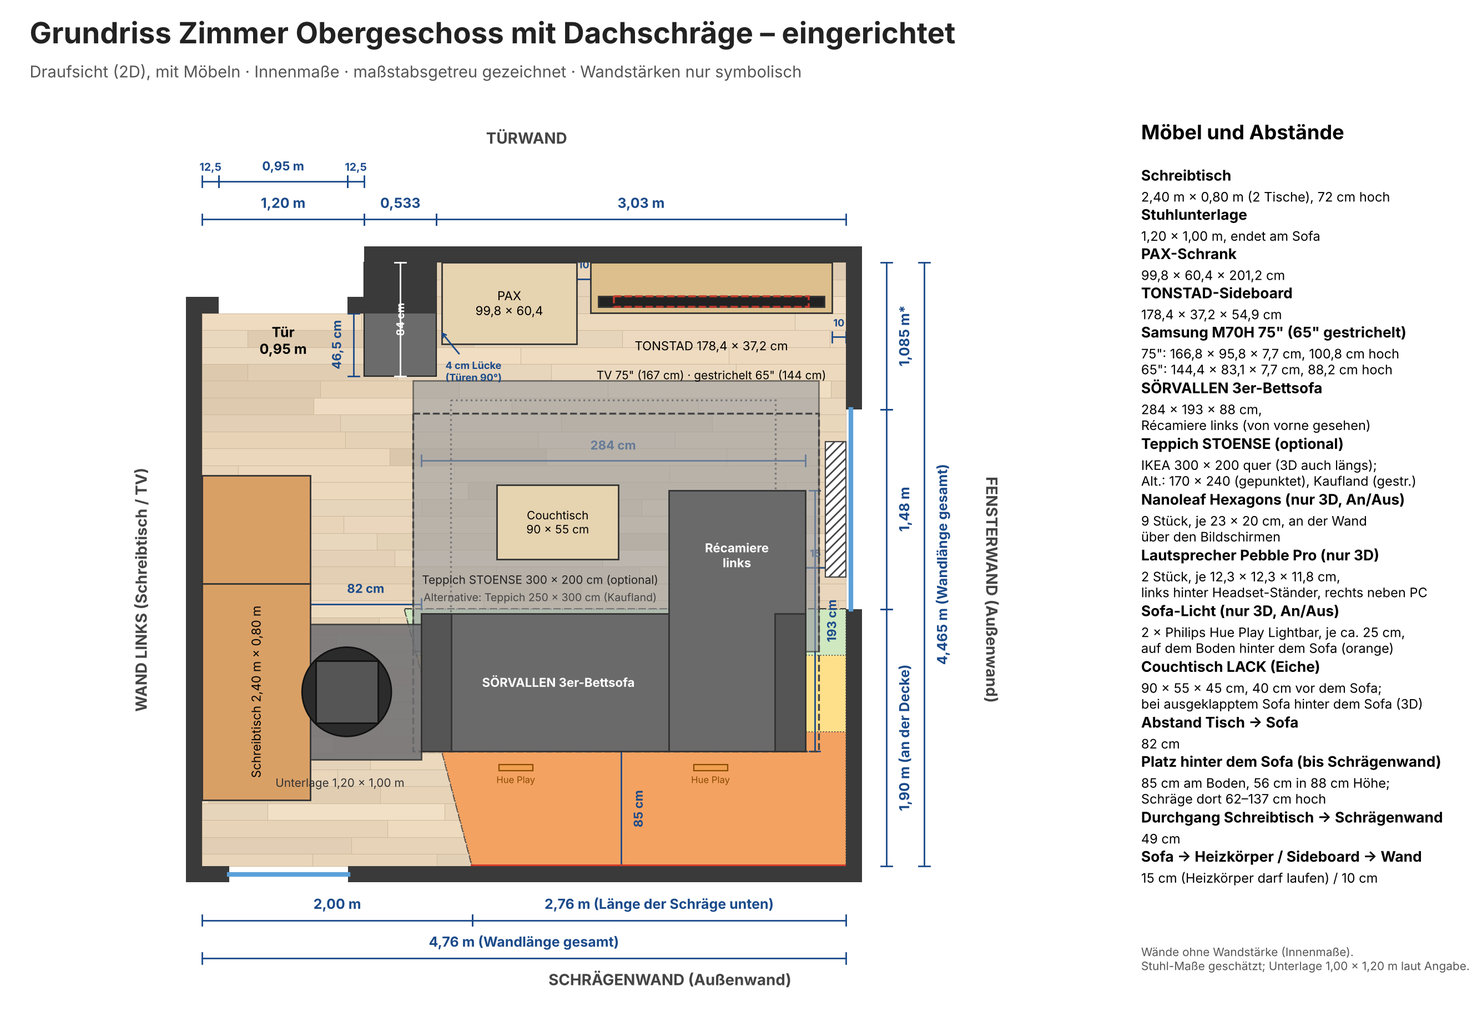
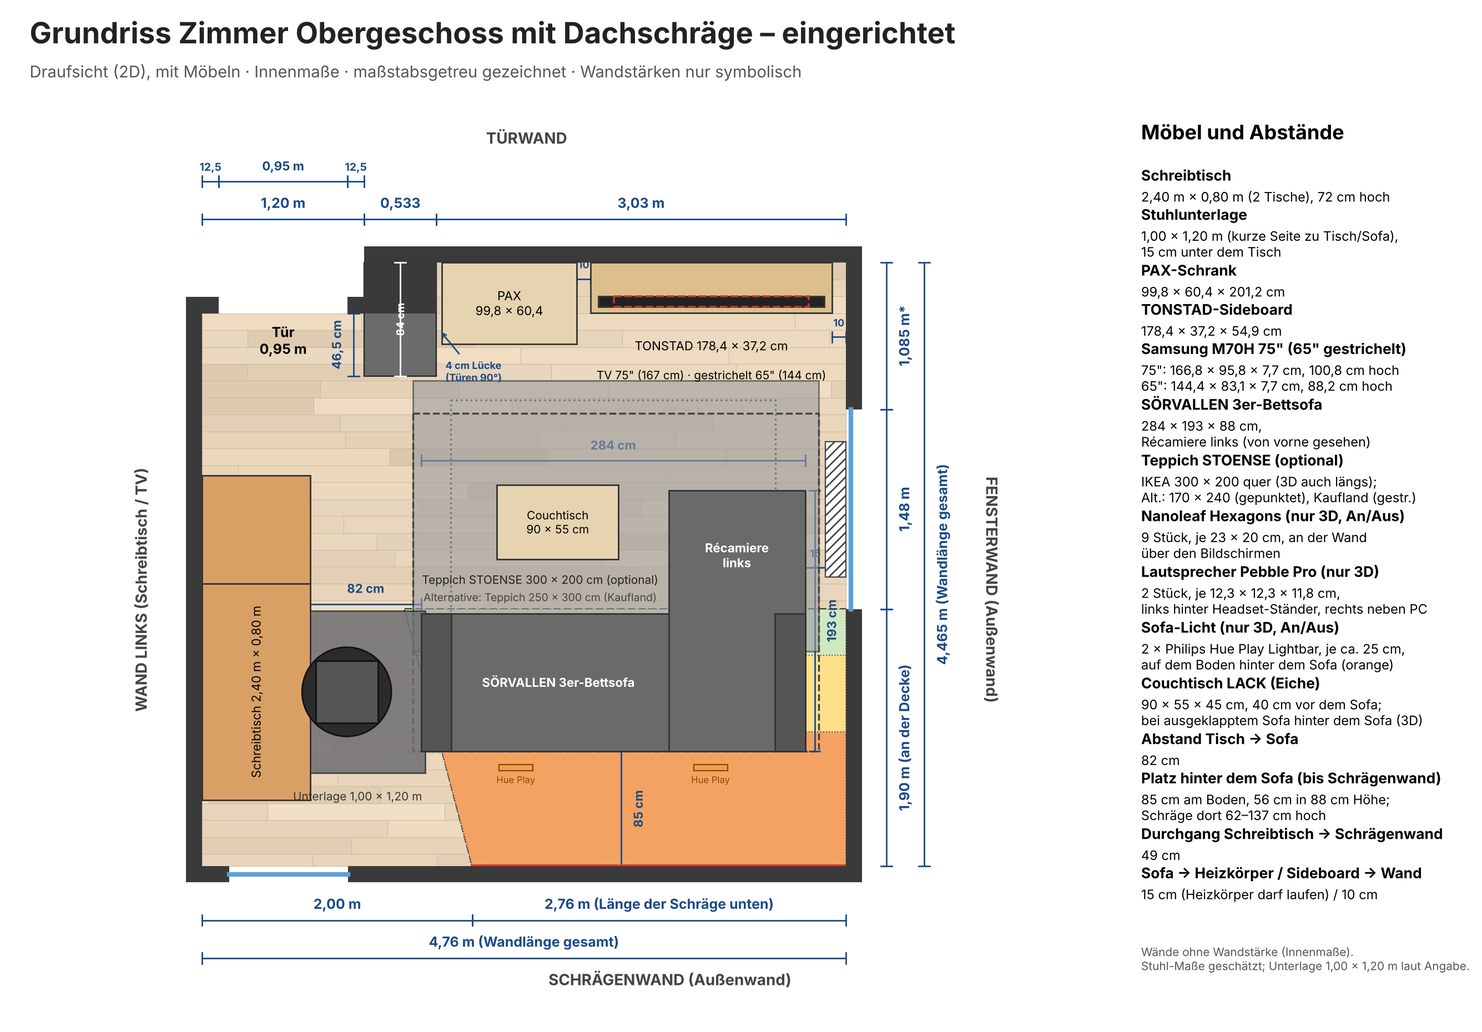
Stuhlunterlage 1,00 x 1,20 m gedreht (kurze Seite zu Tisch/Sofa), 15 cm unter dem Tisch; Rest-Label korrigiert
Claude-Session: https://claude.ai/code/session_01Hf3Bkowp5NFKLbRns8Nosg

Changed region(s): [[0.7461, 0.2183, 0.9637, 0.8731], [0.1865, 0.7172, 0.3109, 0.7796], [0.1865, 0.5925, 0.2798, 0.6237]]

diff --git a/eingerichtet.html b/eingerichtet.html
@@ -629,7 +629,7 @@ Object.keys(RUGS).forEach(function(n){var R=RUGS[n],r=R.r,s=room.children.length
 
 cat='stuhl';
 // Stuhlunterlage 100 x 120 cm + Bürostuhl (Maße geschätzt: Sitz 50 x 50, Gesamthöhe 98, Fußkreuz Ø 66)
-var MX0=0.42,MX1=1.62,MY0=2.30,MY1=3.30,CCX=1.07,CCY=2.80;   // mittig unter dem 1,60-m-Tischteil (y 2,00-3,60)   // Unterlage 1,20 m (Tisch -> Sofa) x 1,00 m (längs zum Tisch), endet am Sofa (1,20 m) -> ragt 23 cm unter die Tischplatte
+var MX0=0.65,MX1=1.65,MY0=2.20,MY1=3.40,CCX=1.07,CCY=2.80;   // mittig unter dem 1,60-m-Tischteil (y 2,00-3,60)   // Unterlage 1,00 m (Tisch -> Sofa, kurze Seite) x 1,20 m (längs zum Tisch), ragt 15 cm unter die Tischplatte (Angabe), reicht 3 cm unters Sofa
 box(MX0,MY0,0,MX1,MY1,0.008,0x6e6e72);
 var CHC=0x222226;
 box(CCX-0.225,CCY-0.225,0.45,CCX+0.225,CCY+0.225,0.51,CHC);      // Sitzfläche 45 x 45
@@ -867,7 +867,7 @@ var LC={'Schreibtisch 2,40 m':'tisch','Höhe 72 cm':'tisch','Tiefe 80 cm':'tisch
  'Sideboard 180 × 42 × 38 cm':'sideboard','Sideboard TONSTAD 178,4 × 37,2 × 54,9 cm':'sideboardT','54,9 cm':'sideboardT','178,4 cm':'sideboardT','Rest bis Fensterwand ≈ 0,10 m (TONSTAD)':'sideboardT','38 cm':'sideboard','180 cm':'sideboard','Rest bis Fensterwand ≈ 0,09 m':'sideboard',
  'Fernseher 75" · Panel 166,8 × 95,8 × 7,7 cm · 22 kg (BESTÅ trägt 30 kg)':'tv','Bilddiagonale ≈ 189 cm (75 Zoll)':'tv','100,8 cm (mit Füßen)':'tv','138,8 cm gesamt':'tv',
  'Sofa SÖRVALLEN 284 × 193 × 88 cm':'sofa','284 cm':'sofa','85 cm Platz hinter dem Sofa (Schräge dort 62–137 cm hoch)':'sofa','Tiefe 102 cm':'sofa','193 cm':'sofa','Decke 137 cm: 49 cm Luft über Rücken (88 cm)':'sofa','15 cm bis Heizkörper':'sofa','Schlaffläche 239 × 147 cm':'bett','239 cm':'bett','147 cm':'bett','Bettkante bis Sideboard 89 cm':'bett','Couchtisch LACK 90 × 55 × 45 cm':'ctn','Breite 90 cm':'ctn','Tiefe 55 cm':'ctn','bis Sofa 40 cm':'ctn','bis Récamiere 36 cm':'ctn','bis Sideboard 85 cm':'ctn','Höhe 45 cm':'ctn','Couchtisch LACK 90 × 55 × 45 cm (hinter dem Sofa)':'ctb','Breite 90 cm (hinter dem Sofa)':'ctb','Tiefe 55 cm (hinter dem Sofa)':'ctb','bis Sofa 10 cm':'ctb','bis Schrägenwand 20 cm':'ctb','Tischhöhe 45 cm':'ctb',
- 'Unterlage 120 cm':'stuhl','38 cm unter Tischplatte':'stuhl','Unterlage 100 cm':'stuhl','Unterlage endet am Sofa':'stuhl','Bürostuhl (geschätzt)':'stuhl',
+ 'Unterlage 120 cm':'stuhl','15 cm unter Tischplatte':'stuhl','Unterlage 100 cm':'stuhl','Unterlage 3 cm unterm Sofa':'stuhl','Bürostuhl (geschätzt)':'stuhl',
  'Tisch bis Sofa 82 cm':'abstand','Stuhl–Sofa 27 cm':'abstand'};Object.assign(LC,RUGLC);LEDLB.forEach(function(l){LC[l[0]]='led';});TVLB.forEach(function(l){LC[l[0]]='tvled';});TVLB65.forEach(function(l){LC[l[0]]='tvled65';});TVLBL65.forEach(function(l){LC[l[0]]='tv65';});TVLB85.forEach(function(l){LC[l[0]]='tvled85';});TVLBL85.forEach(function(l){LC[l[0]]='tv85';});SFLB.forEach(function(l){LC[l[0]]='sofaled';});
 var labels=[
  ['4,76 m',W/2,-NY-0.25,0],['4,465 m (Fensterwand)',W+0.25,(D-NY)/2,0],['4,09 m',-0.25,D/2,0],['Raumhöhe 2,30 m*',-0.2,-0.2,H/2],
@@ -884,8 +884,8 @@ var labels=[
  ['Schlaffläche 239 × 147 cm',3.05,(BYF+BYR)/2,0.9],['239 cm',(BXA+BXB)/2,BYF-0.15,0.02],['147 cm',SX0-0.12,(BYF+BYR)/2,0.02],['Bettkante bis Sideboard 89 cm',4.10,(SBD+BYF)/2,0.02],
  ['Couchtisch LACK 90 × 55 × 45 cm',(CTN[0]+CTN[2])/2,(CTN[1]+CTN[3])/2,0.62],['Breite 90 cm',(CTN[0]+CTN[2])/2,CTN[1]-0.10,0.02],['Tiefe 55 cm',2.08,(CTN[1]+CTN[3])/2,0.02],['bis Sofa 40 cm',2.08,(CTN[3]+D-SGAP-1.02)/2,0.02],['bis Récamiere 36 cm',(CTN[2]+SX0+1.825)/2,1.55,0.02],['bis Sideboard 85 cm',2.75,(SBD+CTN[1])/2,0.02],['Höhe 45 cm',CTN[2]+0.06,1.545,0.22],['Couchtisch LACK 90 × 55 × 45 cm (hinter dem Sofa)',(CTB[0]+CTB[2])/2,(CTB[1]+CTB[3])/2,0.62],['Breite 90 cm (hinter dem Sofa)',(CTB[0]+CTB[2])/2,CTB[3]+0.10,0.02],['Tiefe 55 cm (hinter dem Sofa)',2.50,(CTB[1]+CTB[3])/2,0.02],['bis Sofa 10 cm',2.50,D-SGAP+0.05,0.02],['bis Schrägenwand 20 cm',3.70,(CTB[3]+D)/2,0.02],['Tischhöhe 45 cm',CTB[2]+0.06,(CTB[1]+CTB[3])/2,0.22],
  
- ['Tisch bis Sofa 82 cm',(0.80+SX0)/2,2.10,0.03],['Unterlage 120 cm',(MX0+MX1)/2,MY0-0.04,0.03],['38 cm unter Tischplatte',MX0+0.07,MY0-0.12,0.03],['Unterlage 100 cm',MX1,(MY0+MY1)/2,0.03],
- ['Stuhl–Sofa 27 cm',(CCX+0.275+SX0)/2,2.95,0.03],['Unterlage endet am Sofa',MX1,MY0-0.12,0.03],['Bürostuhl (geschätzt)',CCX,CCY,1.12],['99,8 cm',PX0+PW/2,0.75,0.02],['Lücke 4 cm (Türen 90°)',(1.733+PX0)/2,0.30,0.02],['180 cm',SB0+SBW/2,0.75,0.02],['Rest bis Fensterwand ≈ 0,09 m',SB0+SBW+0.115,0.75,0.02],['178,4 cm',SBT.X0+SBT.W/2,0.75,0.02],['Rest bis Fensterwand ≈ 0,10 m (TONSTAD)',SBT.X0+SBT.W+0.115,0.75,0.02]
+ ['Tisch bis Sofa 82 cm',(0.80+SX0)/2,2.10,0.03],['Unterlage 100 cm',(MX0+MX1)/2,MY0-0.04,0.03],['15 cm unter Tischplatte',MX0+0.07,MY0-0.12,0.03],['Unterlage 120 cm',MX1,(MY0+MY1)/2,0.03],
+ ['Stuhl–Sofa 27 cm',(CCX+0.275+SX0)/2,2.95,0.03],['Unterlage 3 cm unterm Sofa',MX1,MY0-0.12,0.03],['Bürostuhl (geschätzt)',CCX,CCY,1.12],['99,8 cm',PX0+PW/2,0.75,0.02],['Lücke 4 cm (Türen 90°)',(1.733+PX0)/2,0.30,0.02],['180 cm',SB0+SBW/2,0.75,0.02],['Rest bis Fensterwand ≈ 0,09 m',(SB0+SBW+W)/2,0.75,0.02],['178,4 cm',SBT.X0+SBT.W/2,0.75,0.02],['Rest bis Fensterwand ≈ 0,10 m (TONSTAD)',SBT.X0+SBT.W+0.115,0.75,0.02]
 ].concat(RUGLB).concat(LEDLB).concat(TVLB).concat(TVLB65).concat(TVLBL65).concat(TVLB85).concat(TVLBL85).concat(SFLB).map(function(l){var d=document.createElement('div');d.className='lbl';d.textContent=l[0];stage.appendChild(d);return {el:d,p:P(l[1],l[2]-(({schrank:1,sideboard:1,sideboardT:1,tv:1,tv65:1,tv85:1,tvled:1,tvled65:1,tvled85:1})[LC[l[0]]]?NY:0),l[3]),cat:LC[l[0]]||'raum'};});
 // Nische: Schrank, Sideboard, Fernseher und TV-LED stehen an der neuen Rückwand (NY weiter hinten)
 room.children.forEach(function(o){var c=o.userData&&o.userData.cat;if(c==='schrank'||c==='sideboard'||c==='sideboardT'||c==='tv'||c==='tv65'||c==='tv85'||c==='tvled'||c==='tvled65'||c==='tvled85')o.position.z-=NY;});

diff --git a/eingerichtet_mobil.html b/eingerichtet_mobil.html
@@ -642,7 +642,7 @@ Object.keys(RUGS).forEach(function(n){var R=RUGS[n],r=R.r,s=room.children.length
 
 cat='stuhl';
 // Stuhlunterlage 100 x 120 cm + Bürostuhl (Maße geschätzt: Sitz 50 x 50, Gesamthöhe 98, Fußkreuz Ø 66)
-var MX0=0.42,MX1=1.62,MY0=2.30,MY1=3.30,CCX=1.07,CCY=2.80;   // mittig unter dem 1,60-m-Tischteil (y 2,00-3,60)   // Unterlage 1,20 m (Tisch -> Sofa) x 1,00 m (längs zum Tisch), endet am Sofa (1,20 m) -> ragt 23 cm unter die Tischplatte
+var MX0=0.65,MX1=1.65,MY0=2.20,MY1=3.40,CCX=1.07,CCY=2.80;   // mittig unter dem 1,60-m-Tischteil (y 2,00-3,60)   // Unterlage 1,00 m (Tisch -> Sofa, kurze Seite) x 1,20 m (längs zum Tisch), ragt 15 cm unter die Tischplatte (Angabe), reicht 3 cm unters Sofa
 box(MX0,MY0,0,MX1,MY1,0.008,0x6e6e72);
 var CHC=0x222226;
 box(CCX-0.225,CCY-0.225,0.45,CCX+0.225,CCY+0.225,0.51,CHC);      // Sitzfläche 45 x 45
@@ -880,7 +880,7 @@ var LC={'Schreibtisch 2,40 m':'tisch','Höhe 72 cm':'tisch','Tiefe 80 cm':'tisch
  'Sideboard 180 × 42 × 38 cm':'sideboard','Sideboard TONSTAD 178,4 × 37,2 × 54,9 cm':'sideboardT','54,9 cm':'sideboardT','178,4 cm':'sideboardT','Rest bis Fensterwand ≈ 0,10 m (TONSTAD)':'sideboardT','38 cm':'sideboard','180 cm':'sideboard','Rest bis Fensterwand ≈ 0,09 m':'sideboard',
  'Fernseher 75" · Panel 166,8 × 95,8 × 7,7 cm · 22 kg (BESTÅ trägt 30 kg)':'tv','Bilddiagonale ≈ 189 cm (75 Zoll)':'tv','100,8 cm (mit Füßen)':'tv','138,8 cm gesamt':'tv',
  'Sofa SÖRVALLEN 284 × 193 × 88 cm':'sofa','284 cm':'sofa','85 cm Platz hinter dem Sofa (Schräge dort 62–137 cm hoch)':'sofa','Tiefe 102 cm':'sofa','193 cm':'sofa','Decke 137 cm: 49 cm Luft über Rücken (88 cm)':'sofa','15 cm bis Heizkörper':'sofa','Schlaffläche 239 × 147 cm':'bett','239 cm':'bett','147 cm':'bett','Bettkante bis Sideboard 89 cm':'bett','Couchtisch LACK 90 × 55 × 45 cm':'ctn','Breite 90 cm':'ctn','Tiefe 55 cm':'ctn','bis Sofa 40 cm':'ctn','bis Récamiere 36 cm':'ctn','bis Sideboard 85 cm':'ctn','Höhe 45 cm':'ctn','Couchtisch LACK 90 × 55 × 45 cm (hinter dem Sofa)':'ctb','Breite 90 cm (hinter dem Sofa)':'ctb','Tiefe 55 cm (hinter dem Sofa)':'ctb','bis Sofa 10 cm':'ctb','bis Schrägenwand 20 cm':'ctb','Tischhöhe 45 cm':'ctb',
- 'Unterlage 120 cm':'stuhl','38 cm unter Tischplatte':'stuhl','Unterlage 100 cm':'stuhl','Unterlage endet am Sofa':'stuhl','Bürostuhl (geschätzt)':'stuhl',
+ 'Unterlage 120 cm':'stuhl','15 cm unter Tischplatte':'stuhl','Unterlage 100 cm':'stuhl','Unterlage 3 cm unterm Sofa':'stuhl','Bürostuhl (geschätzt)':'stuhl',
  'Tisch bis Sofa 82 cm':'abstand','Stuhl–Sofa 27 cm':'abstand'};Object.assign(LC,RUGLC);LEDLB.forEach(function(l){LC[l[0]]='led';});TVLB.forEach(function(l){LC[l[0]]='tvled';});TVLB65.forEach(function(l){LC[l[0]]='tvled65';});TVLBL65.forEach(function(l){LC[l[0]]='tv65';});TVLB85.forEach(function(l){LC[l[0]]='tvled85';});TVLBL85.forEach(function(l){LC[l[0]]='tv85';});SFLB.forEach(function(l){LC[l[0]]='sofaled';});
 var labels=[
  ['4,76 m',W/2,-NY-0.25,0],['4,465 m (Fensterwand)',W+0.25,(D-NY)/2,0],['4,09 m',-0.25,D/2,0],['Raumhöhe 2,30 m*',-0.2,-0.2,H/2],
@@ -897,8 +897,8 @@ var labels=[
  ['Schlaffläche 239 × 147 cm',3.05,(BYF+BYR)/2,0.9],['239 cm',(BXA+BXB)/2,BYF-0.15,0.02],['147 cm',SX0-0.12,(BYF+BYR)/2,0.02],['Bettkante bis Sideboard 89 cm',4.10,(SBD+BYF)/2,0.02],
  ['Couchtisch LACK 90 × 55 × 45 cm',(CTN[0]+CTN[2])/2,(CTN[1]+CTN[3])/2,0.62],['Breite 90 cm',(CTN[0]+CTN[2])/2,CTN[1]-0.10,0.02],['Tiefe 55 cm',2.08,(CTN[1]+CTN[3])/2,0.02],['bis Sofa 40 cm',2.08,(CTN[3]+D-SGAP-1.02)/2,0.02],['bis Récamiere 36 cm',(CTN[2]+SX0+1.825)/2,1.55,0.02],['bis Sideboard 85 cm',2.75,(SBD+CTN[1])/2,0.02],['Höhe 45 cm',CTN[2]+0.06,1.545,0.22],['Couchtisch LACK 90 × 55 × 45 cm (hinter dem Sofa)',(CTB[0]+CTB[2])/2,(CTB[1]+CTB[3])/2,0.62],['Breite 90 cm (hinter dem Sofa)',(CTB[0]+CTB[2])/2,CTB[3]+0.10,0.02],['Tiefe 55 cm (hinter dem Sofa)',2.50,(CTB[1]+CTB[3])/2,0.02],['bis Sofa 10 cm',2.50,D-SGAP+0.05,0.02],['bis Schrägenwand 20 cm',3.70,(CTB[3]+D)/2,0.02],['Tischhöhe 45 cm',CTB[2]+0.06,(CTB[1]+CTB[3])/2,0.22],
  
- ['Tisch bis Sofa 82 cm',(0.80+SX0)/2,2.10,0.03],['Unterlage 120 cm',(MX0+MX1)/2,MY0-0.04,0.03],['38 cm unter Tischplatte',MX0+0.07,MY0-0.12,0.03],['Unterlage 100 cm',MX1,(MY0+MY1)/2,0.03],
- ['Stuhl–Sofa 27 cm',(CCX+0.275+SX0)/2,2.95,0.03],['Unterlage endet am Sofa',MX1,MY0-0.12,0.03],['Bürostuhl (geschätzt)',CCX,CCY,1.12],['99,8 cm',PX0+PW/2,0.75,0.02],['Lücke 4 cm (Türen 90°)',(1.733+PX0)/2,0.30,0.02],['180 cm',SB0+SBW/2,0.75,0.02],['Rest bis Fensterwand ≈ 0,09 m',SB0+SBW+0.115,0.75,0.02],['178,4 cm',SBT.X0+SBT.W/2,0.75,0.02],['Rest bis Fensterwand ≈ 0,10 m (TONSTAD)',SBT.X0+SBT.W+0.115,0.75,0.02]
+ ['Tisch bis Sofa 82 cm',(0.80+SX0)/2,2.10,0.03],['Unterlage 100 cm',(MX0+MX1)/2,MY0-0.04,0.03],['15 cm unter Tischplatte',MX0+0.07,MY0-0.12,0.03],['Unterlage 120 cm',MX1,(MY0+MY1)/2,0.03],
+ ['Stuhl–Sofa 27 cm',(CCX+0.275+SX0)/2,2.95,0.03],['Unterlage 3 cm unterm Sofa',MX1,MY0-0.12,0.03],['Bürostuhl (geschätzt)',CCX,CCY,1.12],['99,8 cm',PX0+PW/2,0.75,0.02],['Lücke 4 cm (Türen 90°)',(1.733+PX0)/2,0.30,0.02],['180 cm',SB0+SBW/2,0.75,0.02],['Rest bis Fensterwand ≈ 0,09 m',(SB0+SBW+W)/2,0.75,0.02],['178,4 cm',SBT.X0+SBT.W/2,0.75,0.02],['Rest bis Fensterwand ≈ 0,10 m (TONSTAD)',SBT.X0+SBT.W+0.115,0.75,0.02]
 ].concat(RUGLB).concat(LEDLB).concat(TVLB).concat(TVLB65).concat(TVLBL65).concat(TVLB85).concat(TVLBL85).concat(SFLB).map(function(l){var d=document.createElement('div');d.className='lbl';d.textContent=l[0];stage.appendChild(d);return {el:d,p:P(l[1],l[2]-(({schrank:1,sideboard:1,sideboardT:1,tv:1,tv65:1,tv85:1,tvled:1,tvled65:1,tvled85:1})[LC[l[0]]]?NY:0),l[3]),cat:LC[l[0]]||'raum'};});
 // Nische: Schrank, Sideboard, Fernseher und TV-LED stehen an der neuen Rückwand (NY weiter hinten)
 room.children.forEach(function(o){var c=o.userData&&o.userData.cat;if(c==='schrank'||c==='sideboard'||c==='sideboardT'||c==='tv'||c==='tv65'||c==='tv85'||c==='tvled'||c==='tvled65'||c==='tvled85')o.position.z-=NY;});

diff --git a/interaktiv.html b/interaktiv.html
@@ -629,7 +629,7 @@ Object.keys(RUGS).forEach(function(n){var R=RUGS[n],r=R.r,s=room.children.length
 
 cat='stuhl';
 // Stuhlunterlage 100 x 120 cm + Bürostuhl (Maße geschätzt: Sitz 50 x 50, Gesamthöhe 98, Fußkreuz Ø 66)
-var MX0=0.42,MX1=1.62,MY0=2.30,MY1=3.30,CCX=1.07,CCY=2.80;   // mittig unter dem 1,60-m-Tischteil (y 2,00-3,60)   // Unterlage 1,20 m (Tisch -> Sofa) x 1,00 m (längs zum Tisch), endet am Sofa (1,20 m) -> ragt 23 cm unter die Tischplatte
+var MX0=0.65,MX1=1.65,MY0=2.20,MY1=3.40,CCX=1.07,CCY=2.80;   // mittig unter dem 1,60-m-Tischteil (y 2,00-3,60)   // Unterlage 1,00 m (Tisch -> Sofa, kurze Seite) x 1,20 m (längs zum Tisch), ragt 15 cm unter die Tischplatte (Angabe), reicht 3 cm unters Sofa
 box(MX0,MY0,0,MX1,MY1,0.008,0x6e6e72);
 var CHC=0x222226;
 box(CCX-0.225,CCY-0.225,0.45,CCX+0.225,CCY+0.225,0.51,CHC);      // Sitzfläche 45 x 45
@@ -867,7 +867,7 @@ var LC={'Schreibtisch 2,40 m':'tisch','Höhe 72 cm':'tisch','Tiefe 80 cm':'tisch
  'Sideboard 180 × 42 × 38 cm':'sideboard','Sideboard TONSTAD 178,4 × 37,2 × 54,9 cm':'sideboardT','54,9 cm':'sideboardT','178,4 cm':'sideboardT','Rest bis Fensterwand ≈ 0,10 m (TONSTAD)':'sideboardT','38 cm':'sideboard','180 cm':'sideboard','Rest bis Fensterwand ≈ 0,09 m':'sideboard',
  'Fernseher 75" · Panel 166,8 × 95,8 × 7,7 cm · 22 kg (BESTÅ trägt 30 kg)':'tv','Bilddiagonale ≈ 189 cm (75 Zoll)':'tv','100,8 cm (mit Füßen)':'tv','138,8 cm gesamt':'tv',
  'Sofa SÖRVALLEN 284 × 193 × 88 cm':'sofa','284 cm':'sofa','85 cm Platz hinter dem Sofa (Schräge dort 62–137 cm hoch)':'sofa','Tiefe 102 cm':'sofa','193 cm':'sofa','Decke 137 cm: 49 cm Luft über Rücken (88 cm)':'sofa','15 cm bis Heizkörper':'sofa','Schlaffläche 239 × 147 cm':'bett','239 cm':'bett','147 cm':'bett','Bettkante bis Sideboard 89 cm':'bett','Couchtisch LACK 90 × 55 × 45 cm':'ctn','Breite 90 cm':'ctn','Tiefe 55 cm':'ctn','bis Sofa 40 cm':'ctn','bis Récamiere 36 cm':'ctn','bis Sideboard 85 cm':'ctn','Höhe 45 cm':'ctn','Couchtisch LACK 90 × 55 × 45 cm (hinter dem Sofa)':'ctb','Breite 90 cm (hinter dem Sofa)':'ctb','Tiefe 55 cm (hinter dem Sofa)':'ctb','bis Sofa 10 cm':'ctb','bis Schrägenwand 20 cm':'ctb','Tischhöhe 45 cm':'ctb',
- 'Unterlage 120 cm':'stuhl','38 cm unter Tischplatte':'stuhl','Unterlage 100 cm':'stuhl','Unterlage endet am Sofa':'stuhl','Bürostuhl (geschätzt)':'stuhl',
+ 'Unterlage 120 cm':'stuhl','15 cm unter Tischplatte':'stuhl','Unterlage 100 cm':'stuhl','Unterlage 3 cm unterm Sofa':'stuhl','Bürostuhl (geschätzt)':'stuhl',
  'Tisch bis Sofa 82 cm':'abstand','Stuhl–Sofa 27 cm':'abstand'};Object.assign(LC,RUGLC);LEDLB.forEach(function(l){LC[l[0]]='led';});TVLB.forEach(function(l){LC[l[0]]='tvled';});TVLB65.forEach(function(l){LC[l[0]]='tvled65';});TVLBL65.forEach(function(l){LC[l[0]]='tv65';});TVLB85.forEach(function(l){LC[l[0]]='tvled85';});TVLBL85.forEach(function(l){LC[l[0]]='tv85';});SFLB.forEach(function(l){LC[l[0]]='sofaled';});
 var labels=[
  ['4,76 m',W/2,-NY-0.25,0],['4,465 m (Fensterwand)',W+0.25,(D-NY)/2,0],['4,09 m',-0.25,D/2,0],['Raumhöhe 2,30 m*',-0.2,-0.2,H/2],
@@ -884,8 +884,8 @@ var labels=[
  ['Schlaffläche 239 × 147 cm',3.05,(BYF+BYR)/2,0.9],['239 cm',(BXA+BXB)/2,BYF-0.15,0.02],['147 cm',SX0-0.12,(BYF+BYR)/2,0.02],['Bettkante bis Sideboard 89 cm',4.10,(SBD+BYF)/2,0.02],
  ['Couchtisch LACK 90 × 55 × 45 cm',(CTN[0]+CTN[2])/2,(CTN[1]+CTN[3])/2,0.62],['Breite 90 cm',(CTN[0]+CTN[2])/2,CTN[1]-0.10,0.02],['Tiefe 55 cm',2.08,(CTN[1]+CTN[3])/2,0.02],['bis Sofa 40 cm',2.08,(CTN[3]+D-SGAP-1.02)/2,0.02],['bis Récamiere 36 cm',(CTN[2]+SX0+1.825)/2,1.55,0.02],['bis Sideboard 85 cm',2.75,(SBD+CTN[1])/2,0.02],['Höhe 45 cm',CTN[2]+0.06,1.545,0.22],['Couchtisch LACK 90 × 55 × 45 cm (hinter dem Sofa)',(CTB[0]+CTB[2])/2,(CTB[1]+CTB[3])/2,0.62],['Breite 90 cm (hinter dem Sofa)',(CTB[0]+CTB[2])/2,CTB[3]+0.10,0.02],['Tiefe 55 cm (hinter dem Sofa)',2.50,(CTB[1]+CTB[3])/2,0.02],['bis Sofa 10 cm',2.50,D-SGAP+0.05,0.02],['bis Schrägenwand 20 cm',3.70,(CTB[3]+D)/2,0.02],['Tischhöhe 45 cm',CTB[2]+0.06,(CTB[1]+CTB[3])/2,0.22],
  
- ['Tisch bis Sofa 82 cm',(0.80+SX0)/2,2.10,0.03],['Unterlage 120 cm',(MX0+MX1)/2,MY0-0.04,0.03],['38 cm unter Tischplatte',MX0+0.07,MY0-0.12,0.03],['Unterlage 100 cm',MX1,(MY0+MY1)/2,0.03],
- ['Stuhl–Sofa 27 cm',(CCX+0.275+SX0)/2,2.95,0.03],['Unterlage endet am Sofa',MX1,MY0-0.12,0.03],['Bürostuhl (geschätzt)',CCX,CCY,1.12],['99,8 cm',PX0+PW/2,0.75,0.02],['Lücke 4 cm (Türen 90°)',(1.733+PX0)/2,0.30,0.02],['180 cm',SB0+SBW/2,0.75,0.02],['Rest bis Fensterwand ≈ 0,09 m',SB0+SBW+0.115,0.75,0.02],['178,4 cm',SBT.X0+SBT.W/2,0.75,0.02],['Rest bis Fensterwand ≈ 0,10 m (TONSTAD)',SBT.X0+SBT.W+0.115,0.75,0.02]
+ ['Tisch bis Sofa 82 cm',(0.80+SX0)/2,2.10,0.03],['Unterlage 100 cm',(MX0+MX1)/2,MY0-0.04,0.03],['15 cm unter Tischplatte',MX0+0.07,MY0-0.12,0.03],['Unterlage 120 cm',MX1,(MY0+MY1)/2,0.03],
+ ['Stuhl–Sofa 27 cm',(CCX+0.275+SX0)/2,2.95,0.03],['Unterlage 3 cm unterm Sofa',MX1,MY0-0.12,0.03],['Bürostuhl (geschätzt)',CCX,CCY,1.12],['99,8 cm',PX0+PW/2,0.75,0.02],['Lücke 4 cm (Türen 90°)',(1.733+PX0)/2,0.30,0.02],['180 cm',SB0+SBW/2,0.75,0.02],['Rest bis Fensterwand ≈ 0,09 m',(SB0+SBW+W)/2,0.75,0.02],['178,4 cm',SBT.X0+SBT.W/2,0.75,0.02],['Rest bis Fensterwand ≈ 0,10 m (TONSTAD)',SBT.X0+SBT.W+0.115,0.75,0.02]
 ].concat(RUGLB).concat(LEDLB).concat(TVLB).concat(TVLB65).concat(TVLBL65).concat(TVLB85).concat(TVLBL85).concat(SFLB).map(function(l){var d=document.createElement('div');d.className='lbl';d.textContent=l[0];stage.appendChild(d);return {el:d,p:P(l[1],l[2]-(({schrank:1,sideboard:1,sideboardT:1,tv:1,tv65:1,tv85:1,tvled:1,tvled65:1,tvled85:1})[LC[l[0]]]?NY:0),l[3]),cat:LC[l[0]]||'raum'};});
 // Nische: Schrank, Sideboard, Fernseher und TV-LED stehen an der neuen Rückwand (NY weiter hinten)
 room.children.forEach(function(o){var c=o.userData&&o.userData.cat;if(c==='schrank'||c==='sideboard'||c==='sideboardT'||c==='tv'||c==='tv65'||c==='tv85'||c==='tvled'||c==='tvled65'||c==='tvled85')o.position.z-=NY;});

diff --git a/interaktiv_mobil.html b/interaktiv_mobil.html
@@ -642,7 +642,7 @@ Object.keys(RUGS).forEach(function(n){var R=RUGS[n],r=R.r,s=room.children.length
 
 cat='stuhl';
 // Stuhlunterlage 100 x 120 cm + Bürostuhl (Maße geschätzt: Sitz 50 x 50, Gesamthöhe 98, Fußkreuz Ø 66)
-var MX0=0.42,MX1=1.62,MY0=2.30,MY1=3.30,CCX=1.07,CCY=2.80;   // mittig unter dem 1,60-m-Tischteil (y 2,00-3,60)   // Unterlage 1,20 m (Tisch -> Sofa) x 1,00 m (längs zum Tisch), endet am Sofa (1,20 m) -> ragt 23 cm unter die Tischplatte
+var MX0=0.65,MX1=1.65,MY0=2.20,MY1=3.40,CCX=1.07,CCY=2.80;   // mittig unter dem 1,60-m-Tischteil (y 2,00-3,60)   // Unterlage 1,00 m (Tisch -> Sofa, kurze Seite) x 1,20 m (längs zum Tisch), ragt 15 cm unter die Tischplatte (Angabe), reicht 3 cm unters Sofa
 box(MX0,MY0,0,MX1,MY1,0.008,0x6e6e72);
 var CHC=0x222226;
 box(CCX-0.225,CCY-0.225,0.45,CCX+0.225,CCY+0.225,0.51,CHC);      // Sitzfläche 45 x 45
@@ -880,7 +880,7 @@ var LC={'Schreibtisch 2,40 m':'tisch','Höhe 72 cm':'tisch','Tiefe 80 cm':'tisch
  'Sideboard 180 × 42 × 38 cm':'sideboard','Sideboard TONSTAD 178,4 × 37,2 × 54,9 cm':'sideboardT','54,9 cm':'sideboardT','178,4 cm':'sideboardT','Rest bis Fensterwand ≈ 0,10 m (TONSTAD)':'sideboardT','38 cm':'sideboard','180 cm':'sideboard','Rest bis Fensterwand ≈ 0,09 m':'sideboard',
  'Fernseher 75" · Panel 166,8 × 95,8 × 7,7 cm · 22 kg (BESTÅ trägt 30 kg)':'tv','Bilddiagonale ≈ 189 cm (75 Zoll)':'tv','100,8 cm (mit Füßen)':'tv','138,8 cm gesamt':'tv',
  'Sofa SÖRVALLEN 284 × 193 × 88 cm':'sofa','284 cm':'sofa','85 cm Platz hinter dem Sofa (Schräge dort 62–137 cm hoch)':'sofa','Tiefe 102 cm':'sofa','193 cm':'sofa','Decke 137 cm: 49 cm Luft über Rücken (88 cm)':'sofa','15 cm bis Heizkörper':'sofa','Schlaffläche 239 × 147 cm':'bett','239 cm':'bett','147 cm':'bett','Bettkante bis Sideboard 89 cm':'bett','Couchtisch LACK 90 × 55 × 45 cm':'ctn','Breite 90 cm':'ctn','Tiefe 55 cm':'ctn','bis Sofa 40 cm':'ctn','bis Récamiere 36 cm':'ctn','bis Sideboard 85 cm':'ctn','Höhe 45 cm':'ctn','Couchtisch LACK 90 × 55 × 45 cm (hinter dem Sofa)':'ctb','Breite 90 cm (hinter dem Sofa)':'ctb','Tiefe 55 cm (hinter dem Sofa)':'ctb','bis Sofa 10 cm':'ctb','bis Schrägenwand 20 cm':'ctb','Tischhöhe 45 cm':'ctb',
- 'Unterlage 120 cm':'stuhl','38 cm unter Tischplatte':'stuhl','Unterlage 100 cm':'stuhl','Unterlage endet am Sofa':'stuhl','Bürostuhl (geschätzt)':'stuhl',
+ 'Unterlage 120 cm':'stuhl','15 cm unter Tischplatte':'stuhl','Unterlage 100 cm':'stuhl','Unterlage 3 cm unterm Sofa':'stuhl','Bürostuhl (geschätzt)':'stuhl',
  'Tisch bis Sofa 82 cm':'abstand','Stuhl–Sofa 27 cm':'abstand'};Object.assign(LC,RUGLC);LEDLB.forEach(function(l){LC[l[0]]='led';});TVLB.forEach(function(l){LC[l[0]]='tvled';});TVLB65.forEach(function(l){LC[l[0]]='tvled65';});TVLBL65.forEach(function(l){LC[l[0]]='tv65';});TVLB85.forEach(function(l){LC[l[0]]='tvled85';});TVLBL85.forEach(function(l){LC[l[0]]='tv85';});SFLB.forEach(function(l){LC[l[0]]='sofaled';});
 var labels=[
  ['4,76 m',W/2,-NY-0.25,0],['4,465 m (Fensterwand)',W+0.25,(D-NY)/2,0],['4,09 m',-0.25,D/2,0],['Raumhöhe 2,30 m*',-0.2,-0.2,H/2],
@@ -897,8 +897,8 @@ var labels=[
  ['Schlaffläche 239 × 147 cm',3.05,(BYF+BYR)/2,0.9],['239 cm',(BXA+BXB)/2,BYF-0.15,0.02],['147 cm',SX0-0.12,(BYF+BYR)/2,0.02],['Bettkante bis Sideboard 89 cm',4.10,(SBD+BYF)/2,0.02],
  ['Couchtisch LACK 90 × 55 × 45 cm',(CTN[0]+CTN[2])/2,(CTN[1]+CTN[3])/2,0.62],['Breite 90 cm',(CTN[0]+CTN[2])/2,CTN[1]-0.10,0.02],['Tiefe 55 cm',2.08,(CTN[1]+CTN[3])/2,0.02],['bis Sofa 40 cm',2.08,(CTN[3]+D-SGAP-1.02)/2,0.02],['bis Récamiere 36 cm',(CTN[2]+SX0+1.825)/2,1.55,0.02],['bis Sideboard 85 cm',2.75,(SBD+CTN[1])/2,0.02],['Höhe 45 cm',CTN[2]+0.06,1.545,0.22],['Couchtisch LACK 90 × 55 × 45 cm (hinter dem Sofa)',(CTB[0]+CTB[2])/2,(CTB[1]+CTB[3])/2,0.62],['Breite 90 cm (hinter dem Sofa)',(CTB[0]+CTB[2])/2,CTB[3]+0.10,0.02],['Tiefe 55 cm (hinter dem Sofa)',2.50,(CTB[1]+CTB[3])/2,0.02],['bis Sofa 10 cm',2.50,D-SGAP+0.05,0.02],['bis Schrägenwand 20 cm',3.70,(CTB[3]+D)/2,0.02],['Tischhöhe 45 cm',CTB[2]+0.06,(CTB[1]+CTB[3])/2,0.22],
  
- ['Tisch bis Sofa 82 cm',(0.80+SX0)/2,2.10,0.03],['Unterlage 120 cm',(MX0+MX1)/2,MY0-0.04,0.03],['38 cm unter Tischplatte',MX0+0.07,MY0-0.12,0.03],['Unterlage 100 cm',MX1,(MY0+MY1)/2,0.03],
- ['Stuhl–Sofa 27 cm',(CCX+0.275+SX0)/2,2.95,0.03],['Unterlage endet am Sofa',MX1,MY0-0.12,0.03],['Bürostuhl (geschätzt)',CCX,CCY,1.12],['99,8 cm',PX0+PW/2,0.75,0.02],['Lücke 4 cm (Türen 90°)',(1.733+PX0)/2,0.30,0.02],['180 cm',SB0+SBW/2,0.75,0.02],['Rest bis Fensterwand ≈ 0,09 m',SB0+SBW+0.115,0.75,0.02],['178,4 cm',SBT.X0+SBT.W/2,0.75,0.02],['Rest bis Fensterwand ≈ 0,10 m (TONSTAD)',SBT.X0+SBT.W+0.115,0.75,0.02]
+ ['Tisch bis Sofa 82 cm',(0.80+SX0)/2,2.10,0.03],['Unterlage 100 cm',(MX0+MX1)/2,MY0-0.04,0.03],['15 cm unter Tischplatte',MX0+0.07,MY0-0.12,0.03],['Unterlage 120 cm',MX1,(MY0+MY1)/2,0.03],
+ ['Stuhl–Sofa 27 cm',(CCX+0.275+SX0)/2,2.95,0.03],['Unterlage 3 cm unterm Sofa',MX1,MY0-0.12,0.03],['Bürostuhl (geschätzt)',CCX,CCY,1.12],['99,8 cm',PX0+PW/2,0.75,0.02],['Lücke 4 cm (Türen 90°)',(1.733+PX0)/2,0.30,0.02],['180 cm',SB0+SBW/2,0.75,0.02],['Rest bis Fensterwand ≈ 0,09 m',(SB0+SBW+W)/2,0.75,0.02],['178,4 cm',SBT.X0+SBT.W/2,0.75,0.02],['Rest bis Fensterwand ≈ 0,10 m (TONSTAD)',SBT.X0+SBT.W+0.115,0.75,0.02]
 ].concat(RUGLB).concat(LEDLB).concat(TVLB).concat(TVLB65).concat(TVLBL65).concat(TVLB85).concat(TVLBL85).concat(SFLB).map(function(l){var d=document.createElement('div');d.className='lbl';d.textContent=l[0];stage.appendChild(d);return {el:d,p:P(l[1],l[2]-(({schrank:1,sideboard:1,sideboardT:1,tv:1,tv65:1,tv85:1,tvled:1,tvled65:1,tvled85:1})[LC[l[0]]]?NY:0),l[3]),cat:LC[l[0]]||'raum'};});
 // Nische: Schrank, Sideboard, Fernseher und TV-LED stehen an der neuen Rückwand (NY weiter hinten)
 room.children.forEach(function(o){var c=o.userData&&o.userData.cat;if(c==='schrank'||c==='sideboard'||c==='sideboardT'||c==='tv'||c==='tv65'||c==='tv85'||c==='tvled'||c==='tvled65'||c==='tvled85')o.position.z-=NY;});
